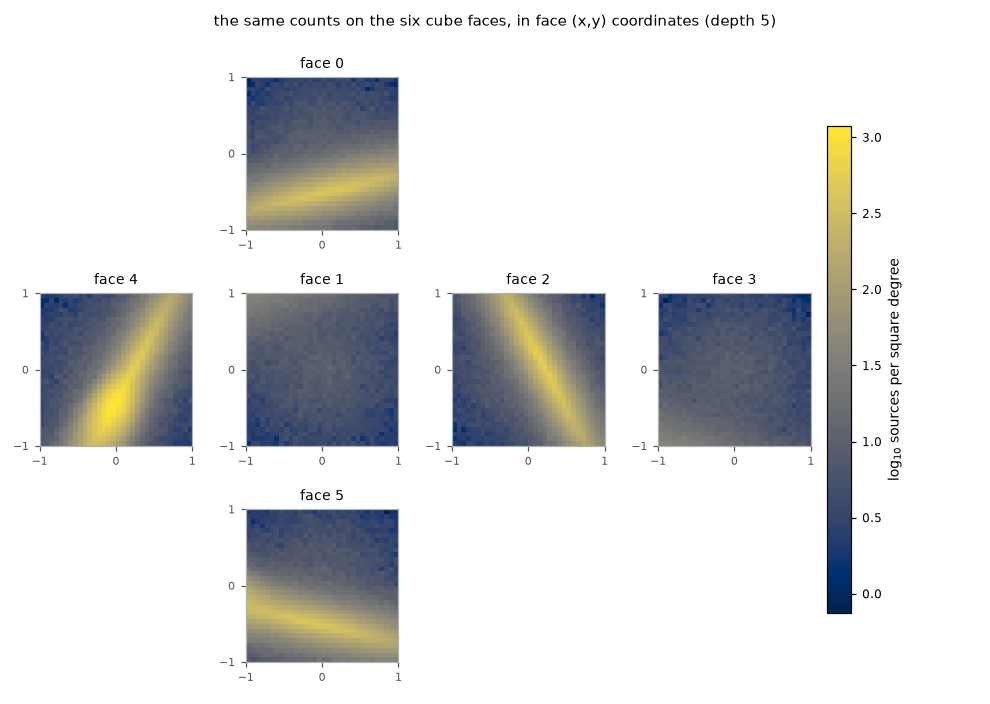
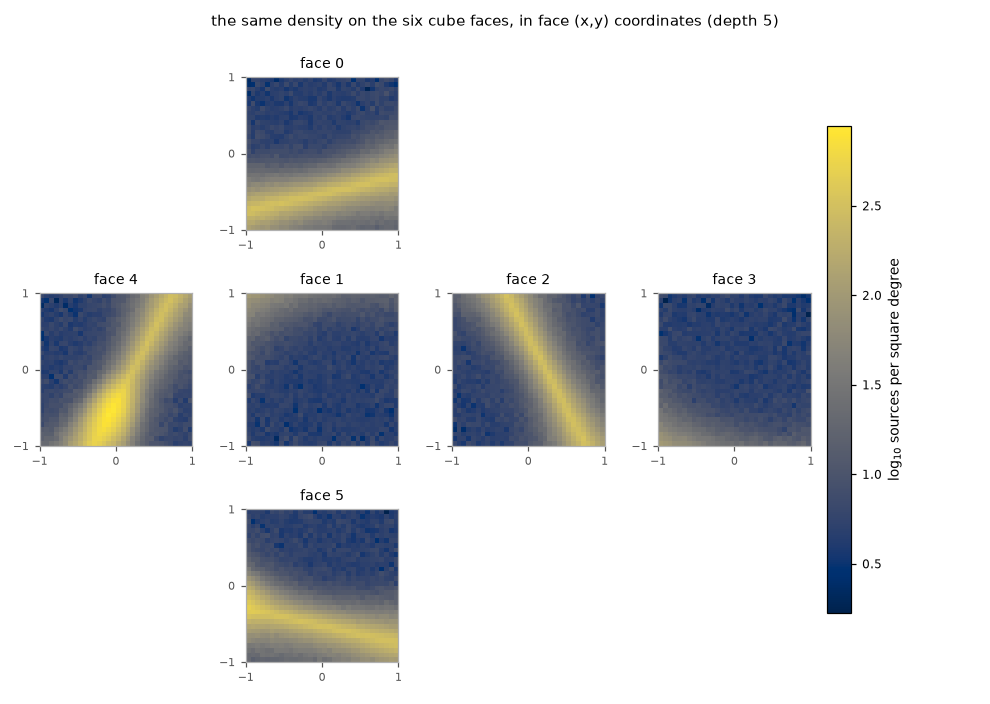
Dividing each pixel's count by its own area in the density figures.
Both density figures divided every count by ipix_area(0, depth). Pixel 0 sits
at a cube vertex, and cube-vertex pixels are the SMALLEST in the scheme - about
2.55 times below the mean at depth 5 - so every density in both figures was
overstated by that factor, while the paragraph beside them said the mean area
had been used. The pixel-scale figure had the same fault in a third place,
plotting sqrt(ipix_area(0, d)) as "the pixel side" against a page whose table
and code block both give the mean.

Three instances of one mistake in one file, and none of them visible in the
output: the figures looked entirely reasonable. So the deliverable is not the
three fixes. generate_figures.py now names the two defensible scales -
mean_pixel_area_sq_deg for characterising a depth, pixel_areas_sq_deg for
turning counts into a density - and test_figure_pixel_areas.py fails on any
ipix_area call with a literal pixel number, which is always the tell. The gate
states its own blind spot: it checks the spelling, not the arithmetic, and that
a figure agrees with the prose beside it remains a human-review duty. It also
pins the fact it rests on, so that if the pixels ever became genuinely
equal-area the gate would be revisited rather than left guarding nothing.

The density figures show a true per-pixel density now rather than a count map
with one scale factor on it, which is the thing the page was already telling
readers to do. Figures regenerated with the committed script; both docs gates
[…]

diff --git a/docs/generate_figures.py b/docs/generate_figures.py
@@ -41,6 +41,45 @@ DENSITY_CMAP = "cividis"
 
 SEED = 20200422
 
+SQ_DEG_PER_STERADIAN = (180. / np.pi) ** 2
+
+
+# ---------------------------------------------------------------------------
+# Pixel areas.
+#
+# QLSC pixels are only approximately equal in area: at any depth they vary by a
+# factor of about 5.2, from the pixels at a cube VERTEX (the smallest) to those
+# at a face centre (the largest). Pixel 0 is a cube-vertex pixel, so
+# ``ipix_area(0, depth)`` is the SMALLEST area in the scheme and about 2.55
+# times below the mean - which is what these figures used to divide their
+# counts by, overstating every density by that factor while the surrounding
+# prose said the mean had been used.
+#
+# There are two defensible scales and this file uses both, deliberately and by
+# name: the mean, for anything characterising the scheme as a whole (a pixel
+# side against depth), and the pixel's own area, for anything showing a real
+# density. Neither is ``ipix_area(0, ...)``, and test_figure_pixel_areas.py
+# fails if that spelling comes back.
+# ---------------------------------------------------------------------------
+
+def mean_pixel_area_sq_deg(q):
+	'''
+	The mean area of a pixel of a scheme, in square degrees: the sphere divided by
+	the number of pixels. This is the scale that characterises a depth.
+	'''
+	return 4. * np.pi / q.nbins * SQ_DEG_PER_STERADIAN
+
+
+def pixel_areas_sq_deg(q, ipix):
+	'''
+	The area of each of the given pixels, in square degrees.
+
+	This is the scale that turns a count into a density, because the count came
+	from that pixel and no other.
+	'''
+	return np.array([q.ipix_area(int(p), q.depth) for p in np.atleast_1d(ipix)]) \
+		* SQ_DEG_PER_STERADIAN
+
 
 def _style(ax, xlabel="right ascension (deg)", ylabel="declination (deg)"):
 	ax.set_xlabel(xlabel)
@@ -329,10 +368,16 @@ def figure_sky_density(path, depth=5):
 									+ 1. / n_dec))
 	mesh_ra, mesh_dec = np.meshgrid(grid_ra, grid_dec)
 	ipix = q.ang2ipix(ra=mesh_ra.ravel().copy(), dec=mesh_dec.ravel().copy())
-	image = np.array([count_of.get(int(p), 0) for p in ipix]).reshape(mesh_dec.shape)
 
-	area = q.ipix_area(0, depth) * (180. / np.pi) ** 2
-	density = image / area
+	# Each pixel's count is divided by THAT pixel's area, so the map is a real
+	# density and not a count map with a single scale factor on it. Only the
+	# occupied pixels need an area, and each is computed once however many grid
+	# cells fall in it.
+	areas = dict(zip(occupied.tolist(), pixel_areas_sq_deg(q, occupied).tolist()))
+	density_of = {p: count_of[p] / areas[p] for p in count_of}
+
+	density = np.array([density_of.get(int(p), 0.) for p in ipix]).reshape(mesh_dec.shape)
+	mean_area = mean_pixel_area_sq_deg(q)
 
 	fig, ax = plt.subplots(figsize=(9.4, 4.8))
 	mesh = ax.pcolormesh(grid_ra, np.degrees(np.arcsin(
@@ -343,8 +388,9 @@ def figure_sky_density(path, depth=5):
 	bar.ax.tick_params(labelsize=8)
 	ax.set_xlim(360., 0.)
 	ax.set_ylim(-90., 90.)
-	ax.set_title(f"counts per depth-{depth} pixel ({q.nbins:,} pixels, "
-				 f"{area:.3g} sq deg each)", fontsize=10)
+	ax.set_title(f"source density at depth {depth} ({q.nbins:,} pixels, "
+				 f"{mean_area:.3g} sq deg on average), each pixel's count "
+				 f"divided by its own area", fontsize=10)
 	_style(ax)
 	ax.grid(False)
 	ax.set_xticks([0, 60, 120, 180, 240, 300, 360])
@@ -361,10 +407,11 @@ def figure_cube_faces(path, depth=5):
 	occupied, counts = np.unique(q.ang2ipix(ra=ra, dec=dec), return_counts=True)
 	facenum, x, y = q.ipix2xy(occupied)
 
-	area = q.ipix_area(0, depth) * (180. / np.pi) ** 2
+	# as in figure_sky_density: each count divided by its own pixel's area
+	densities = counts / pixel_areas_sq_deg(q, occupied)
 	side = 2. / q.nside
-	vmin = np.log10(max(counts.min(), 1) / area)
-	vmax = np.log10(counts.max() / area)
+	vmin = np.log10(max(densities.min(), 1e-3))
+	vmax = np.log10(densities.max())
 
 	# the conventional unfolded-cube layout: the four side faces in a row with
 	# the top and bottom faces above and below face 1.
@@ -380,7 +427,7 @@ def figure_cube_faces(path, depth=5):
 		grid = np.full((q.nside, q.nside), np.nan)
 		i = np.round((x[sel] + 1.) / side).astype(int)
 		j = np.round((y[sel] + 1.) / side).astype(int)
-		grid[j, i] = np.log10(counts[sel] / area)
+		grid[j, i] = np.log10(densities[sel])
 		mesh = ax.imshow(grid, origin="lower", extent=(-1, 1, -1, 1),
 						 cmap=DENSITY_CMAP, vmin=vmin, vmax=vmax,
 						 interpolation="nearest")
@@ -396,7 +443,7 @@ def figure_cube_faces(path, depth=5):
 	bar = fig.colorbar(mesh, ax=axes, fraction=0.03, pad=0.02)
 	bar.set_label("log$_{10}$ sources per square degree", fontsize=9)
 	bar.ax.tick_params(labelsize=8)
-	fig.suptitle(f"the same counts on the six cube faces, in face (x,y) "
+	fig.suptitle(f"the same density on the six cube faces, in face (x,y) "
 				 f"coordinates (depth {depth})", fontsize=10)
 	fig.savefig(path, dpi=110, facecolor="white")
 	plt.close(fig)
@@ -408,7 +455,10 @@ def figure_cube_faces(path, depth=5):
 
 def figure_pixel_scale(path):
 	depths = np.arange(0, 31)
-	sides = np.array([np.sqrt(QLSC(depth=int(d)).ipix_area(0, int(d))) * 180. / np.pi
+	# the MEAN pixel side, sqrt(4*pi/nbins), which is the number
+	# docs/user_guide/depth.rst tabulates and the code block on that page prints;
+	# ipix_area(0, d) is the smallest pixel in the scheme, about 1.6 times narrower
+	sides = np.array([np.sqrt(4. * np.pi / QLSC(depth=int(d)).nbins) * 180. / np.pi
 					  for d in depths])
 
 	fig, ax = plt.subplots(figsize=(7.4, 4.4))
@@ -423,8 +473,8 @@ def figure_pixel_scale(path):
 		ax.annotate(label, xy=(30.4, scale_arcsec), fontsize=8, color="#555555",
 					va="center", ha="left", annotation_clip=False)
 	ax.set_xlim(-0.5, 30.5)
-	ax.set_title("pixel side length against depth", fontsize=10)
-	_style(ax, xlabel="depth", ylabel="pixel side (arcsec)")
+	ax.set_title("mean pixel side length against depth", fontsize=10)
+	_style(ax, xlabel="depth", ylabel="mean pixel side (arcsec)")
 	ax.set_xticks(np.arange(0, 31, 2))
 	fig.tight_layout()
 	fig.savefig(path, dpi=110, facecolor="white")

diff --git a/source/tests/test_figure_pixel_areas.py b/source/tests/test_figure_pixel_areas.py
@@ -1,0 +1,140 @@
+
+import ast
+import pathlib
+
+import numpy as np
+import pytest
+
+from qlsc import QLSC
+
+# A gate over docs/generate_figures.py: no figure may take a single pixel's area as the
+# area of a pixel.
+#
+# This exists because the mistake was made three times in one file and is invisible in the
+# output. QLSC pixels vary in area by a factor of about 5.2, and pixel 0 sits at a cube
+# VERTEX, which makes ipix_area(0, depth) the SMALLEST area in the scheme — about 2.55
+# times below the mean. Both density figures divided their counts by it, overstating every
+# density by that factor while the page beside them said the mean had been used, and the
+# pixel-scale figure plotted sqrt(ipix_area(0, d)) as "the pixel side" against a page that
+# tabulates the mean.
+#
+# Two scales are defensible, and generate_figures.py names both: mean_pixel_area_sq_deg
+# for anything characterising a depth, and pixel_areas_sq_deg for anything showing a
+# density. ipix_area with a literal pixel number is neither.
+#
+# Blind spot, stated rather than assumed covered: this checks the SPELLING, not the
+# arithmetic. A figure that divides by the mean where it should divide per pixel passes
+# here; that the figures agree with the prose beside them remains a human-review duty,
+# and docs/check_example_outputs.py covers only the printed code blocks, not the images.
+
+REPO_ROOT = pathlib.Path(__file__).resolve().parent.parent.parent
+FIGURE_SCRIPT = REPO_ROOT / "docs" / "generate_figures.py"
+
+def ipix_area_calls(tree:ast.AST):
+	'''
+	Yield every call of an ``ipix_area`` method in the tree, with its line number.
+	'''
+	for node in ast.walk(tree):
+		if isinstance(node, ast.Call) and isinstance(node.func, ast.Attribute) \
+		   and node.func.attr == "ipix_area":
+			yield node
+
+def test_the_figure_script_is_present():
+	'''
+	The gate below is vacuous if the file moves; say so rather than passing quietly.
+	'''
+	assert FIGURE_SCRIPT.is_file(), f"expected the figure script at {FIGURE_SCRIPT}"
+
+def test_no_figure_uses_one_pixels_area_as_the_pixel_area():
+	'''
+	Test that no ipix_area call in the figure script names a literal pixel.
+
+	A literal pixel number is always the tell: a figure asking for one specific pixel's
+	area is either characterising the scheme (and wants the mean) or scaling a count (and
+	wants that count's own pixel). Reading the pixel number from a variable is how the
+	per-pixel helper does it, and is fine.
+	'''
+	tree = ast.parse(FIGURE_SCRIPT.read_text(), str(FIGURE_SCRIPT))
+
+	problems = []
+	for node in ipix_area_calls(tree):
+		first = node.args[0] if node.args else None
+		if isinstance(first, ast.Constant):
+			problems.append(f"{FIGURE_SCRIPT.name}:{node.lineno}: ipix_area({first.value!r}, ...) "
+							f"takes one pixel's area as the area of a pixel")
+
+	assert not problems, (
+		"\n  ".join(["a figure is scaling by a single pixel's area:"] + problems)
+		+ "\nUse mean_pixel_area_sq_deg() to characterise a depth, or pixel_areas_sq_deg() "
+		  "to turn counts into a density.")
+
+def test_the_gate_detects_a_violation():
+	'''
+	Test that the check above actually fires; a gate that cannot fail guards nothing.
+	'''
+	sample = ast.parse("area = q.ipix_area(0, depth)\ngood = q.ipix_area(int(p), q.depth)\n")
+	literal = [n for n in ipix_area_calls(sample) if isinstance(n.args[0], ast.Constant)]
+
+	assert len(literal) == 1
+	assert literal[0].args[0].value == 0
+
+def test_pixel_zero_really_is_the_smallest_pixel():
+	'''
+	Test the fact this gate rests on: ipix_area(0, depth) is not a representative area.
+
+	If this ever stops being true — if pixel 0 stops being a cube-vertex pixel, or the
+	pixels become genuinely equal-area — the gate above is guarding against nothing and
+	should be revisited rather than left in place.
+	'''
+	ratios = {}
+	for depth in (2, 3, 5):
+		q = QLSC(depth=depth)
+		areas = np.array([q.ipix_area(p, depth) for p in range(q.nbins)])
+		mean = 4. * np.pi / q.nbins
+
+		# pixel 0 is a cube-vertex pixel, and those are the smallest in the scheme;
+		# there are 24 of them, so it is tied for the minimum rather than uniquely it
+		assert q.ipix_area(0, depth) == pytest.approx(areas.min(), rel=1e-9)
+		assert q.ipix_area(0, depth) < mean
+		ratios[depth] = (areas.min() / mean, areas.max() / areas.min())
+
+	# The spread widens with depth towards the factor of about 5.2 the documentation
+	# quotes; it is not yet there at these depths, which is why this asserts the trend
+	# and the depth-5 value the figures are drawn at rather than one constant.
+	assert ratios[2][1] < ratios[3][1] < ratios[5][1]
+	assert ratios[5][1] > 4.8
+
+	# the number the prose quotes: at depth 5, dividing by a cube-vertex pixel's area
+	# rather than the mean overstates a density by about 2.55
+	assert 1. / ratios[5][0] == pytest.approx(2.55, abs=0.02)
+
+def test_the_named_helpers_mean_what_they_say():
+	'''
+	Test the two helpers the figures use, since the figures themselves are images and
+	nothing else checks their arithmetic.
+	'''
+	import importlib.util
+
+    # the script is not importable as part of the package; load it by path
+	spec = importlib.util.spec_from_file_location("qlsc_generate_figures", FIGURE_SCRIPT)
+	if spec is None or spec.loader is None:
+		pytest.skip("the figure script could not be loaded")
+	module = importlib.util.module_from_spec(spec)
+	try:
+		spec.loader.exec_module(module)
+	except ImportError as e:
+		pytest.skip(f"the figure script needs matplotlib and astropy, which are not installed here ({e})")
+
+	q = QLSC(depth=4)
+	sq_deg = (180. / np.pi) ** 2
+
+	assert module.mean_pixel_area_sq_deg(q) == pytest.approx(4. * np.pi / q.nbins * sq_deg)
+
+	pixels = [0, 1, q.nbins // 2]
+	areas = module.pixel_areas_sq_deg(q, pixels)
+	assert areas.shape == (3,)
+	for area, pixel in zip(areas, pixels):
+		assert area == pytest.approx(q.ipix_area(pixel, q.depth) * sq_deg)
+
+	# a scalar is accepted as one pixel, as it is everywhere else in qlsc
+	assert module.pixel_areas_sq_deg(q, 3).shape == (1,)

diff --git a/docs/examples/density_map.rst b/docs/examples/density_map.rst
@@ -179,9 +179,11 @@ pixels on the polar faces span most of the right-ascension axis when projected
 this way, and the resulting polygons are unreadable. Sampling avoids that
 entirely — for each grid cell, ask which pixel contains it and look up the count.
 
-The blockiness is real: those are the depth-5 pixels, 6.7 square degrees each.
+The blockiness is real: those are the depth-5 pixels, 6.7 square degrees on average.
 The seams where the blocks change orientation, most visible near α = 270° and
-α = 105° and around the poles, are the edges of the cube faces.
+α = 105° and around the poles, are the edges of the cube faces. The colour is a
+density — each pixel's count divided by that pixel's own area, not by one number
+for the whole map; see `From counts to densities`_ below for why that matters.
 
 For anything beyond a quick look, a projection-aware plotting library will serve
 you better. The author has a sibling project, *astplot-js*, that renders sky maps
@@ -231,11 +233,24 @@ From counts to densities
 
 The last step, turning counts into sources per square degree, is the one that
 needs care, because pixel areas vary by up to a factor of about 5.2 (see
-:ref:`how-equal-are-the-pixels` and :ref:`pixel-area-trap`). The counts above were
-divided by ``4*pi/nbins``, the *mean* area, which is the right scale for comparing
-depths but not for any one pixel; :py:func:`~qlsc.QLSC.ipix_area` gives a pixel its
-own area. A latitude profile is fine either way, because it compares pixels drawn
-from all over the sphere:
+:ref:`how-equal-are-the-pixels` and :ref:`pixel-area-trap`). The two figures above
+divide each pixel's count by *that pixel's own* area, which
+:py:func:`~qlsc.QLSC.ipix_area` gives::
+
+	q5 = QLSC(depth=5)
+	occ, cnt = np.unique(q5.ang2ipix(ra=ra, dec=dec), return_counts=True)
+	areas = np.array([q5.ipix_area(int(p), q5.depth) for p in occ]) * (180/np.pi)**2
+	density = cnt / areas
+
+The tempting shortcut is one number for every pixel — ``4*pi/nbins``, the *mean*
+area, which is the right scale for comparing depths and a defensible approximation
+for a quick look, provided the approximation is stated. What is never right is
+``ipix_area(0, depth)``: pixel 0 sits at a cube vertex, so it is the *smallest*
+pixel in the scheme, about 2.55 times below the mean at depth 5, and dividing by it
+overstates every density by that factor.
+
+A latitude profile is fine either way, because it compares pixels drawn from all
+over the sphere:
 
 .. code-block:: python
 

diff --git a/CHANGELOG.md b/CHANGELOG.md
@@ -306,6 +306,15 @@
   so a geographic method added later that takes a latitude fails the gate until it is
   covered. `QLSC` is unchanged: an unnormalized declination is a legitimate celestial
   coordinate and is still read as the point past the pole.
+* The documentation's two density figures showed densities about 2.55 times too high.
+  Both divided every pixel's count by `ipix_area(0, depth)` — pixel 0 sits at a cube
+  vertex, which makes it the *smallest* pixel in the scheme, not a representative one —
+  while the page beside them said the mean area had been used. The pixel-scale figure had
+  the same fault, plotting the smallest pixel's side against a page that tabulates the
+  mean. The density figures now divide each count by that pixel's own area (a true
+  density), the scale figure plots the mean side, the prose agrees with both, and
+  `test_figure_pixel_areas.py` fails if a figure takes one pixel's area as the area of a
+  pixel again.
 * `QLSC.point_in_ellipse` now gives the same answer for a point however its coordinates
   are written. `ra=0` and `ra=360` are the same meridian and at a pole the right ascension
   is arbitrary, but neither of the two containment tests is exact on those: the circular
